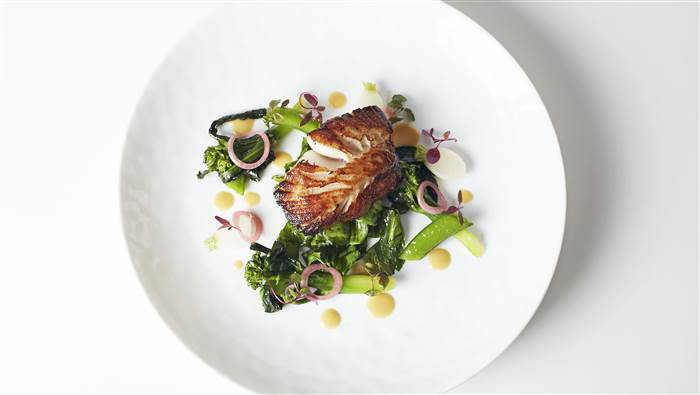
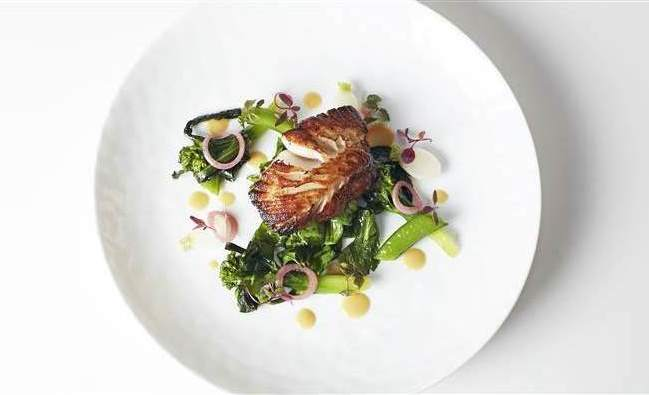
Restaurant-demo-4

diff --git a/assets/css/style.scss b/assets/css/style.scss
@@ -35,7 +35,9 @@ h4 {
   color: $font-color-dark;
   font-weight: 400;
 }
-
+.image-center{
+  margin: 0 auto;
+}
 .section-title {
   color: $section-title-color;
   text-transform: uppercase;
@@ -86,10 +88,6 @@ h4 {
 
 .p-about {
   color: #000000;
-}
-
-.image-about {
- // padding: 10px 10px 10px 10px;
 }
 
 .full-menu-link {

diff --git a/assets/css/style.css b/assets/css/style.css
@@ -236,6 +236,9 @@ h4 {
   color: #303030;
   font-weight: 400; }
 
+.image-center {
+  margin: 0 auto; }
+
 .section-title {
   color: #333;
   text-transform: uppercase;

diff --git a/template-index.php b/template-index.php
@@ -110,7 +110,7 @@
     </div>
     <div class="row">
         <div class="col-sm-6">
-            <img id="img-about" class="img-responsive image-about" src="images/rest-dish.png" alt="image">
+            <img id="img-about" class="img-responsive image-center" src="images/rest-dish.png" alt="image">
         </div>
         <div class="col-xs-12 col-sm-6">
             <h2 class="post-title">Lorem ipsum..</h2>
@@ -194,7 +194,7 @@
             </div>
         </div>
         <div class="col-md-6">
-            <img id="img-bar" src="images/rest-dish-1.jpg" class="img-responsive" alt="image">
+            <img id="img-bar" src="images/rest-dish-1.jpg" class="img img-responsive image-center" alt="image">
         </div>
     </div>
     <div class="row">
